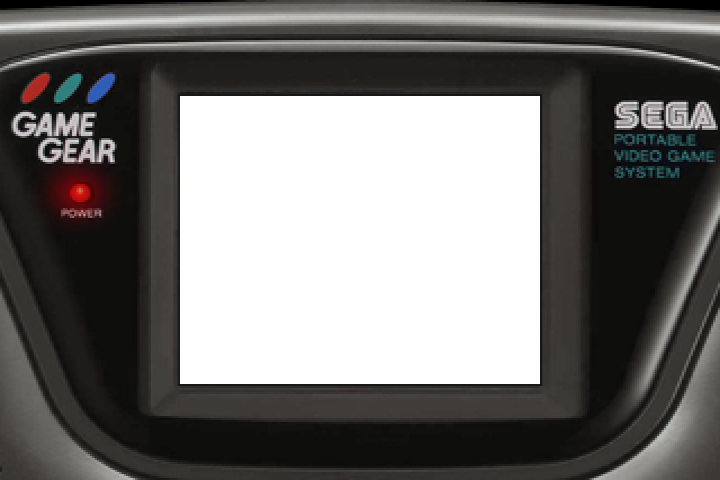
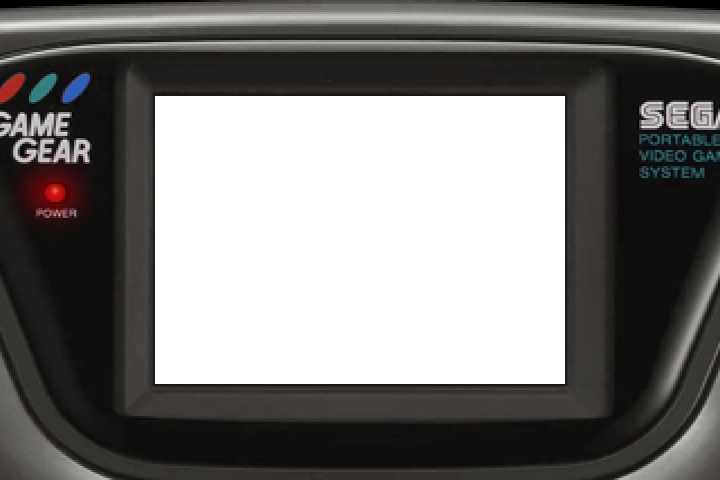
adding sega sg-1000 and little adjust to master system and arcade
- sega sg-1000 is now supported.
- master system was slightly adjusted according to new calculations I've done.
- the mortal kombat series showed up weird due to its uncommon resolution, I did adjustments to make it look better, is still a far cry of how should look, but is the best that can be done since arcade monitors are very different than consumer tv's.

diff --git a/README.md b/README.md
@@ -32,6 +32,7 @@ composite out of the raspberry pi are very limited.
 - playstation (pcsx-rearmed)
 - sega 32x (picodrive)
 - sega cd (genesis plus gx only)
+- sega sg-1000 (genesis plus gx)
 - super nes (snes9x 2010, previous versions should work too)
 - turbografx 16/pc engine/pce-cd (mednafen pce fast)
 - wonderswan/color (mednafen wonderswan)
